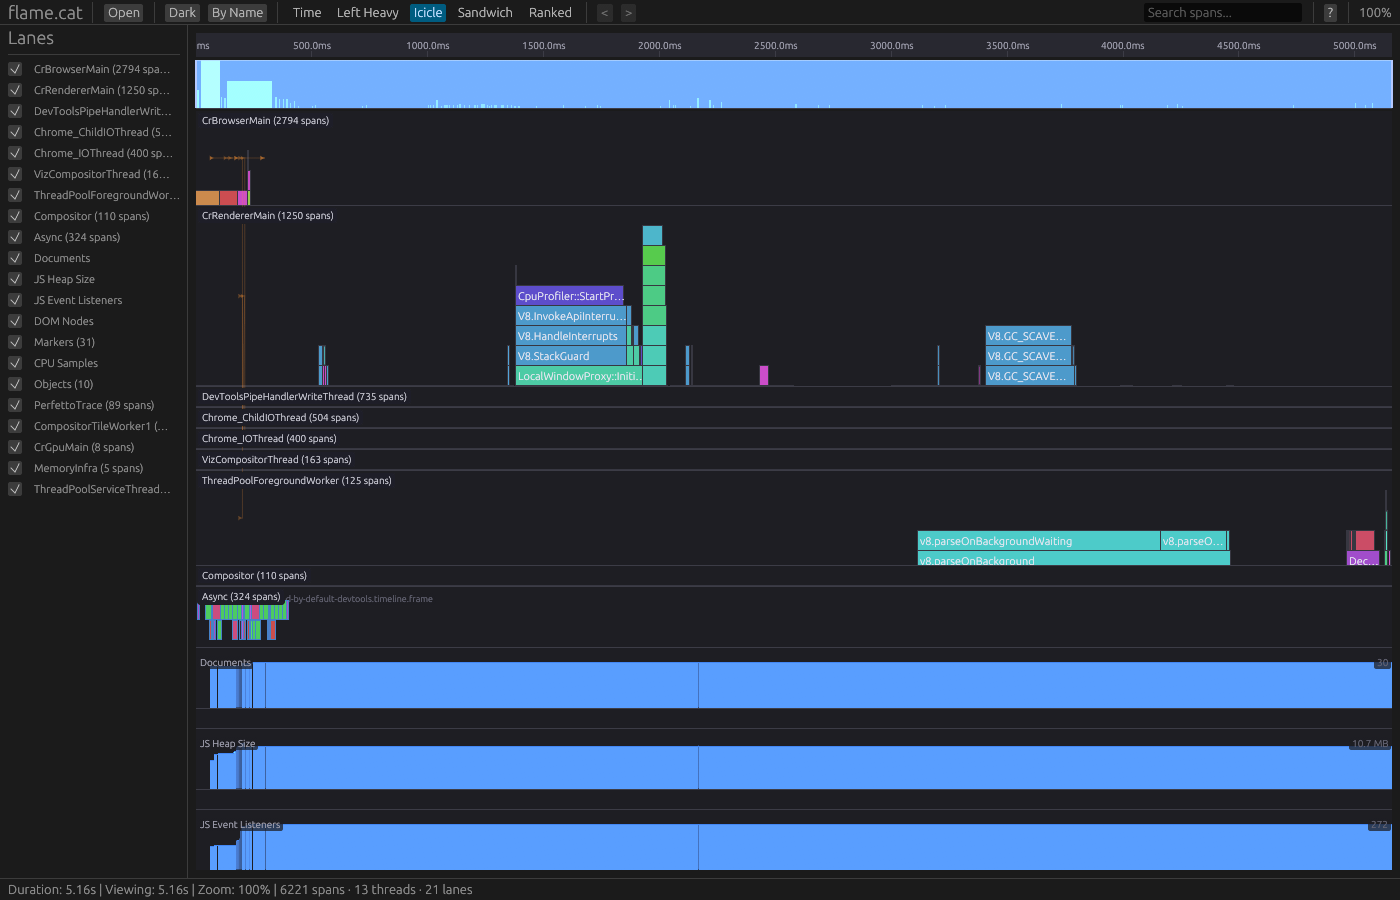
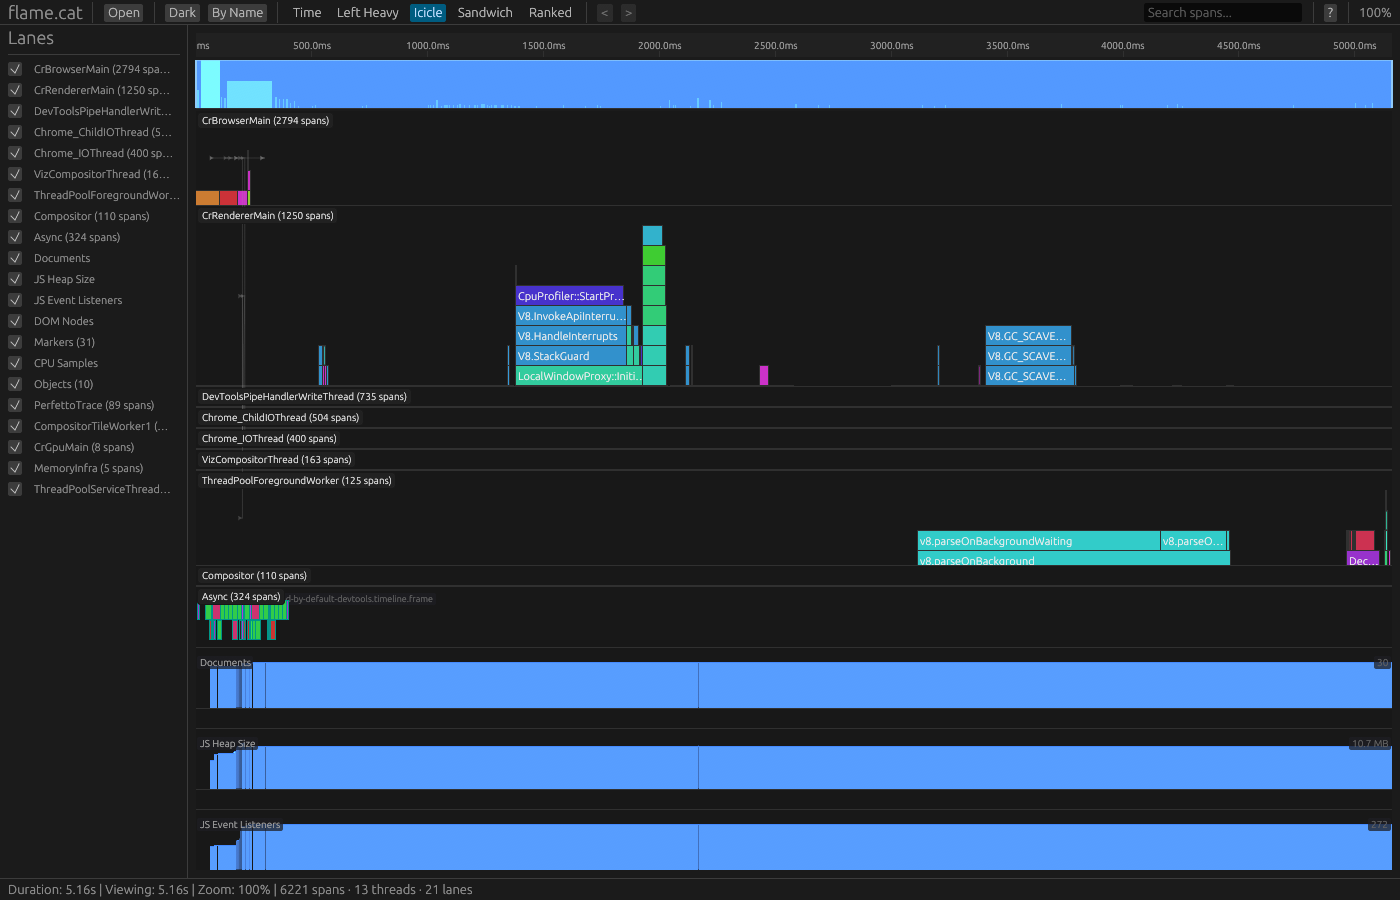
theme: apply Catapult/Perfetto-inspired dark theme, all dark screenshots
Dark theme overhaul:
- Background: #181818 (Perfetto dark), Surface: #212121
- Flame colors: Material Red (#f44336), Orange (#ffa726), Blue (#42a5f5), Purple (#9575cd)
- Accent: Perfetto blue (#448aff) for selection, minimap, toolbar tabs
- Async spans: Material Teal (#4db6ac)
- Flow arrows: neutral gray (was orange — too distracting)
- Borders: #303030 (subtle)
- Counter/marker: Material Yellow (#ffd600)

SVG export colors updated to match.
Color-by-name: boosted saturation (0.60) for vibrant hues on dark bg.

Screenshots: all 4 dark mode only (Time, Left Heavy, Icicle, Ranked).
Removed light/welcome screenshots from README grid.

diff --git a/crates/ui/src/theme.rs b/crates/ui/src/theme.rs
@@ -40,63 +40,64 @@ pub fn resolve(token: ThemeToken, mode: ThemeMode) -> egui::Color32 {
 fn resolve_dark(token: ThemeToken) -> ResolvedColor {
     use ThemeToken::*;
     match token {
-        FlameHot => ResolvedColor::rgb(255, 100, 50),
-        FlameWarm => ResolvedColor::rgb(255, 180, 50),
-        FlameCold => ResolvedColor::rgb(80, 180, 255),
-        FlameNeutral => ResolvedColor::rgb(100, 120, 160),
+        // Perfetto-inspired flame palette
+        FlameHot => ResolvedColor::rgb(244, 67, 54), // Material Red
+        FlameWarm => ResolvedColor::rgb(255, 167, 38), // Material Orange
+        FlameCold => ResolvedColor::rgb(66, 165, 245), // Material Blue
+        FlameNeutral => ResolvedColor::rgb(149, 117, 205), // Material Purple
 
-        LaneBackground => ResolvedColor::rgb(30, 30, 35),
-        LaneBorder => ResolvedColor::rgb(60, 60, 70),
-        LaneHeaderBackground => ResolvedColor::rgb(40, 40, 48),
-        LaneHeaderText => ResolvedColor::rgb(200, 200, 210),
+        LaneBackground => ResolvedColor::rgb(24, 24, 24), // Perfetto bg
+        LaneBorder => ResolvedColor::rgb(48, 48, 48),
+        LaneHeaderBackground => ResolvedColor::rgb(33, 33, 33),
+        LaneHeaderText => ResolvedColor::rgb(224, 224, 224),
 
-        TextPrimary => ResolvedColor::rgb(230, 230, 240),
-        TextSecondary => ResolvedColor::rgb(160, 160, 175),
-        TextMuted => ResolvedColor::rgb(100, 100, 115),
+        TextPrimary => ResolvedColor::rgb(236, 236, 236),
+        TextSecondary => ResolvedColor::rgb(158, 158, 158),
+        TextMuted => ResolvedColor::rgb(97, 97, 97),
 
-        SelectionHighlight => ResolvedColor::rgba(66, 135, 245, 80),
-        HoverHighlight => ResolvedColor::rgba(255, 255, 255, 30),
+        SelectionHighlight => ResolvedColor::rgba(68, 138, 255, 90), // Perfetto accent
+        HoverHighlight => ResolvedColor::rgba(255, 255, 255, 25),
 
-        Background => ResolvedColor::rgb(22, 22, 28),
-        Surface => ResolvedColor::rgb(35, 35, 42),
-        Border => ResolvedColor::rgb(55, 55, 65),
+        Background => ResolvedColor::rgb(18, 18, 18), // Perfetto dark bg
+        Surface => ResolvedColor::rgb(33, 33, 33),
+        Border => ResolvedColor::rgb(48, 48, 48),
 
-        ToolbarBackground => ResolvedColor::rgb(28, 28, 34),
-        ToolbarText => ResolvedColor::rgb(200, 200, 210),
-        ToolbarTabActive => ResolvedColor::rgb(66, 135, 245),
-        ToolbarTabHover => ResolvedColor::rgba(255, 255, 255, 20),
+        ToolbarBackground => ResolvedColor::rgb(24, 24, 24),
+        ToolbarText => ResolvedColor::rgb(224, 224, 224),
+        ToolbarTabActive => ResolvedColor::rgb(68, 138, 255),
+        ToolbarTabHover => ResolvedColor::rgba(255, 255, 255, 15),
 
-        MinimapBackground => ResolvedColor::rgb(20, 20, 28),
-        MinimapViewport => ResolvedColor::rgba(100, 160, 255, 50),
-        MinimapDensity => ResolvedColor::rgb(100, 170, 255),
-        MinimapHandle => ResolvedColor::rgb(180, 200, 255),
+        MinimapBackground => ResolvedColor::rgb(18, 18, 18),
+        MinimapViewport => ResolvedColor::rgba(68, 138, 255, 45),
+        MinimapDensity => ResolvedColor::rgb(68, 138, 255),
+        MinimapHandle => ResolvedColor::rgb(144, 202, 249),
 
-        InlineLabelText => ResolvedColor::rgb(200, 200, 210),
-        InlineLabelBackground => ResolvedColor::rgb(30, 30, 40),
+        InlineLabelText => ResolvedColor::rgb(224, 224, 224),
+        InlineLabelBackground => ResolvedColor::rgb(33, 33, 33),
 
-        TableRowEven => ResolvedColor::rgb(30, 30, 35),
-        TableRowOdd => ResolvedColor::rgb(35, 35, 42),
-        TableHeaderBackground => ResolvedColor::rgb(40, 40, 48),
-        TableBorder => ResolvedColor::rgb(55, 55, 65),
-        BarFill => ResolvedColor::rgb(66, 135, 245),
-        SearchHighlight => ResolvedColor::rgba(255, 200, 50, 120),
+        TableRowEven => ResolvedColor::rgb(24, 24, 24),
+        TableRowOdd => ResolvedColor::rgb(30, 30, 30),
+        TableHeaderBackground => ResolvedColor::rgb(38, 38, 41),
+        TableBorder => ResolvedColor::rgb(48, 48, 48),
+        BarFill => ResolvedColor::rgb(68, 138, 255),
+        SearchHighlight => ResolvedColor::rgba(255, 235, 59, 120), // Material Yellow
 
-        CounterFill => ResolvedColor::rgba(66, 135, 245, 60),
-        CounterLine => ResolvedColor::rgb(66, 135, 245),
-        CounterText => ResolvedColor::rgb(160, 160, 175),
+        CounterFill => ResolvedColor::rgba(68, 138, 255, 50),
+        CounterLine => ResolvedColor::rgb(68, 138, 255),
+        CounterText => ResolvedColor::rgb(158, 158, 158),
 
-        MarkerLine => ResolvedColor::rgb(255, 200, 50),
-        MarkerText => ResolvedColor::rgb(255, 200, 50),
+        MarkerLine => ResolvedColor::rgb(255, 214, 0),
+        MarkerText => ResolvedColor::rgb(255, 214, 0),
 
-        AsyncSpanFill => ResolvedColor::rgb(100, 160, 220),
-        AsyncSpanBorder => ResolvedColor::rgb(70, 130, 200),
+        AsyncSpanFill => ResolvedColor::rgb(77, 182, 172), // Material Teal
+        AsyncSpanBorder => ResolvedColor::rgb(0, 150, 136),
 
         FrameGood => ResolvedColor::rgb(76, 175, 80),
         FrameWarning => ResolvedColor::rgb(255, 193, 7),
         FrameDropped => ResolvedColor::rgb(244, 67, 54),
 
-        FlowArrow => ResolvedColor::rgba(255, 150, 50, 160),
-        FlowArrowHead => ResolvedColor::rgba(255, 150, 50, 200),
+        FlowArrow => ResolvedColor::rgba(158, 158, 158, 80),
+        FlowArrowHead => ResolvedColor::rgba(158, 158, 158, 120),
     }
 }
 

diff --git a/crates/core/src/svg.rs b/crates/core/src/svg.rs
@@ -90,24 +90,24 @@ pub fn render_svg(commands: &[RenderCommand], width: f64, height: f64, dark: boo
 fn resolve_color(token: ThemeToken, dark: bool) -> &'static str {
     if dark {
         match token {
-            ThemeToken::FlameHot => "#ff6b6b",
-            ThemeToken::FlameWarm => "#ffa36b",
-            ThemeToken::FlameCold => "#6bb5ff",
-            ThemeToken::FlameNeutral => "#a8a8c8",
-            ThemeToken::Border | ThemeToken::TableBorder | ThemeToken::AsyncSpanBorder => "#444466",
+            ThemeToken::FlameHot => "#f44336",
+            ThemeToken::FlameWarm => "#ffa726",
+            ThemeToken::FlameCold => "#42a5f5",
+            ThemeToken::FlameNeutral => "#9575cd",
+            ThemeToken::Border | ThemeToken::TableBorder | ThemeToken::AsyncSpanBorder => "#303030",
             ThemeToken::TextPrimary | ThemeToken::ToolbarText | ThemeToken::InlineLabelText => {
-                "#e0e0e0"
+                "#ececec"
             }
             ThemeToken::TextSecondary | ThemeToken::TextMuted | ThemeToken::CounterText => {
-                "#888899"
+                "#9e9e9e"
             }
-            ThemeToken::LaneBackground | ThemeToken::Background => "#1e1e3a",
-            ThemeToken::SelectionHighlight | ThemeToken::HoverHighlight => "#ffdd57",
-            ThemeToken::SearchHighlight => "#00cc88",
-            ThemeToken::BarFill | ThemeToken::CounterFill | ThemeToken::AsyncSpanFill => "#6666aa",
-            ThemeToken::MarkerLine | ThemeToken::MarkerText => "#ff9f43",
-            ThemeToken::FrameGood => "#2ecc71",
-            _ => "#6a6a8a",
+            ThemeToken::LaneBackground | ThemeToken::Background => "#181818",
+            ThemeToken::SelectionHighlight | ThemeToken::HoverHighlight => "#448aff",
+            ThemeToken::SearchHighlight => "#ffeb3b",
+            ThemeToken::BarFill | ThemeToken::CounterFill | ThemeToken::AsyncSpanFill => "#448aff",
+            ThemeToken::MarkerLine | ThemeToken::MarkerText => "#ffd600",
+            ThemeToken::FrameGood => "#4caf50",
+            _ => "#616161",
         }
     } else {
         match token {
@@ -159,7 +159,7 @@ mod tests {
         assert!(svg.starts_with("<svg"));
         assert!(svg.ends_with("</svg>"));
         assert!(svg.contains("main"));
-        assert!(svg.contains("#ff6b6b"));
+        assert!(svg.contains("#f44336"));
     }
 
     #[test]

diff --git a/crates/ui/src/renderer.rs b/crates/ui/src/renderer.rs
@@ -317,10 +317,10 @@ fn name_to_color(name: &str, mode: ThemeMode) -> egui::Color32 {
     }
     let hue = (hash % 360) as f32;
 
-    // HSL → RGB with theme-appropriate saturation/lightness
+    // HSL → RGB with Perfetto-inspired saturation/lightness
     let (s, l) = match mode {
-        ThemeMode::Dark => (0.55, 0.55),
-        ThemeMode::Light => (0.50, 0.62),
+        ThemeMode::Dark => (0.60, 0.50), // Vibrant on dark bg
+        ThemeMode::Light => (0.55, 0.58),
     };
     hsl_to_color32(hue, s, l)
 }

diff --git a/README.md b/README.md
@@ -26,16 +26,12 @@ High-performance flame graph visualization tool. Renders with egui (WebGL2/nativ
 
 <table>
 <tr>
-<td><strong>Time Order (dark)</strong><br><img src="docs/screenshots/demo-dark.png" width="400"></td>
-<td><strong>Time Order (light)</strong><br><img src="docs/screenshots/demo-light.png" width="400"></td>
-</tr>
-<tr>
+<td><strong>Time Order</strong><br><img src="docs/screenshots/demo-dark.png" width="400"></td>
 <td><strong>Left Heavy</strong><br><img src="docs/screenshots/left-heavy.png" width="400"></td>
-<td><strong>Icicle (inverted)</strong><br><img src="docs/screenshots/icicle.png" width="400"></td>
 </tr>
 <tr>
+<td><strong>Icicle (inverted)</strong><br><img src="docs/screenshots/icicle.png" width="400"></td>
 <td><strong>Ranked</strong><br><img src="docs/screenshots/ranked.png" width="400"></td>
-<td><strong>Welcome</strong><br><img src="docs/screenshots/welcome.png" width="400"></td>
 </tr>
 </table>
 
